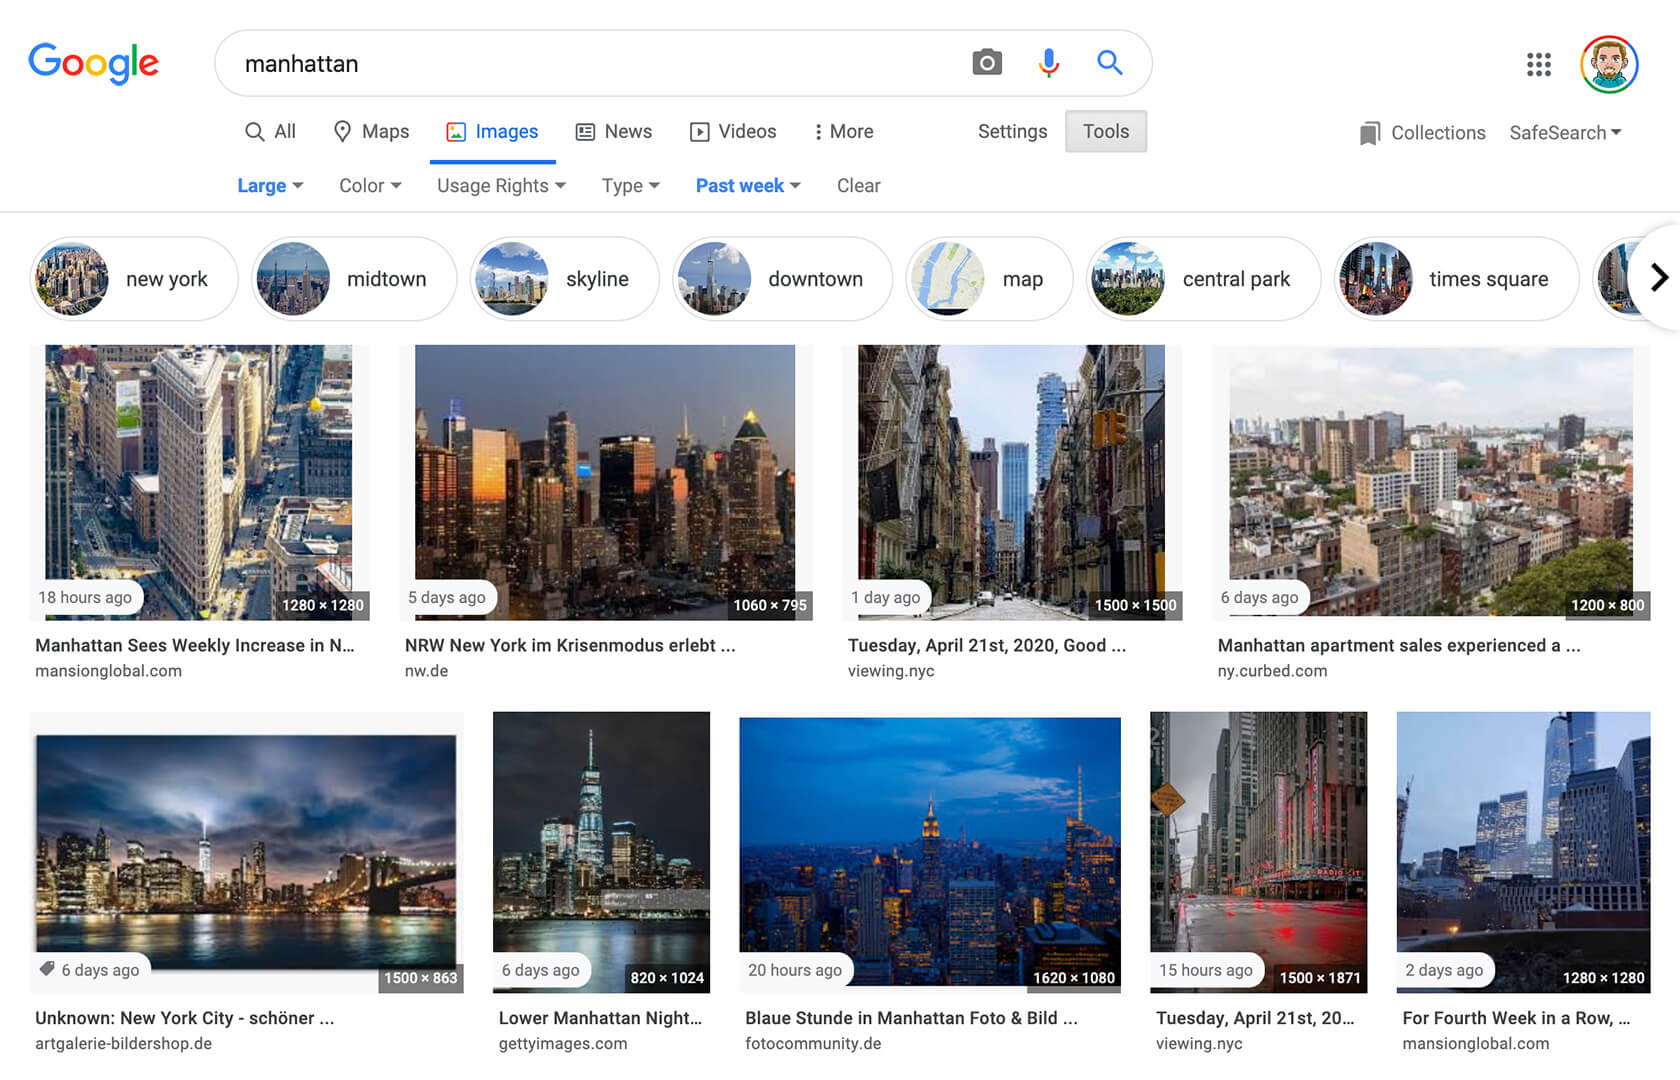
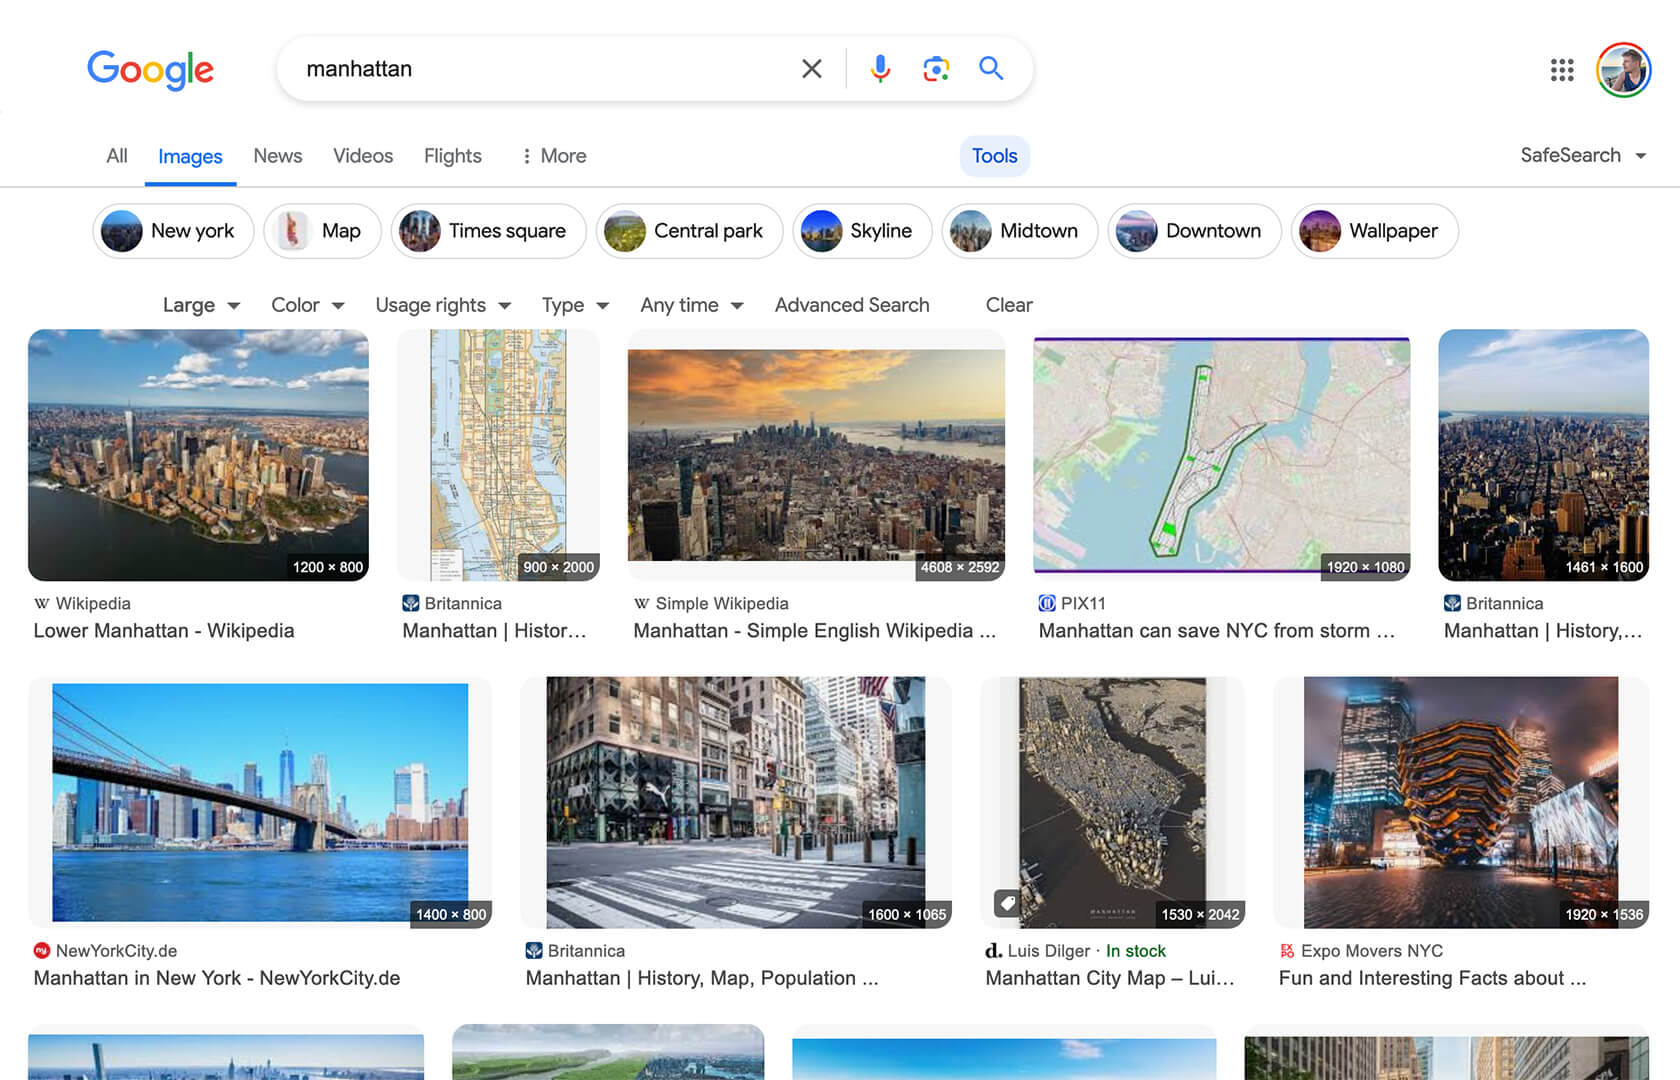
docs: update README and screenshot

diff --git a/README.md b/README.md
@@ -1,18 +1,22 @@
-# Google Image Search - Show Image Dimensions (Userscript)
[1 lines of base64/hex data omitted]
+![Icon](https://raw.githubusercontent.com/tadwohlrapp/google-image-search-show-image-dimensions-userscript/main/icon.png)
 
-## What it does
+# Google Image Search - Show Image Dimensions
 
 This userscript reintroduces image dimensions on thumbnails on the Google Image Search results page.
 
-![screenshot](https://user-images.githubusercontent.com/2788192/138681863-76447603-6103-4313-9477-f48e4342fadb.jpg)
+## Screenshot
 
-## How to use
+![Screenshot](https://raw.githubusercontent.com/tadwohlrapp/google-image-search-show-image-dimensions-userscript/main/screenshot.jpg)
+
+## Installation
 
 To use userscripts you need to first install a userscript manager. They come as extensions for various browsers:
 
-- [Violentmonkey](https://violentmonkey.github.io/) - Chrome, Edge, Firefox, Opera, Vivaldi
-- [Tampermonkey](https://tampermonkey.net/) - Chrome, Edge, Safari, Firefox, Opera, Vivaldi
-- [Greasemonkey](https://www.greasespot.net/) - Firefox
+- [Violentmonkey](https://violentmonkey.github.io/) - for Chrome, Edge, Firefox, Opera
+- [Tampermonkey](https://tampermonkey.net/) - for Chrome, Edge, Safari, Firefox, Opera
 
-After you have installed a userscript manager, [click here to install the userscript](https://greasyfork.org/scripts/401432/code/google-image-search-show-image-dimensions.user.js) and visit the Google Image Search page 😃
+After you have installed a userscript manager, head over to [greasyfork.org/scripts/401432](https://greasyfork.org/scripts/401432) and click on the green "Install this script" button there.
+
+## Usage
+
+After you have installed a userscript manager and this script, just visit the Google Image Search page (https://www.google.com/imghp) and start searching 😃
